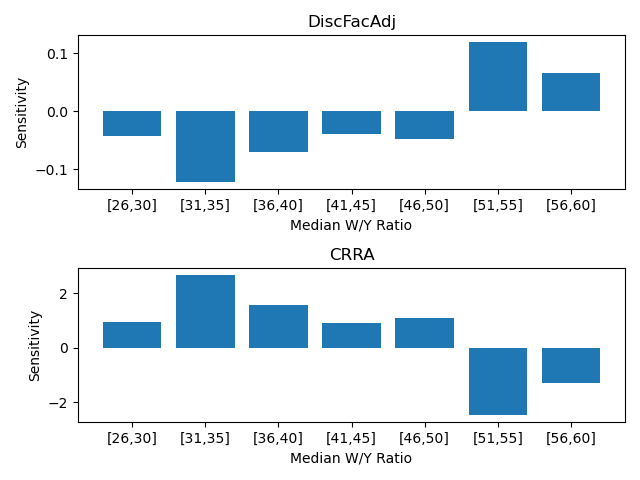
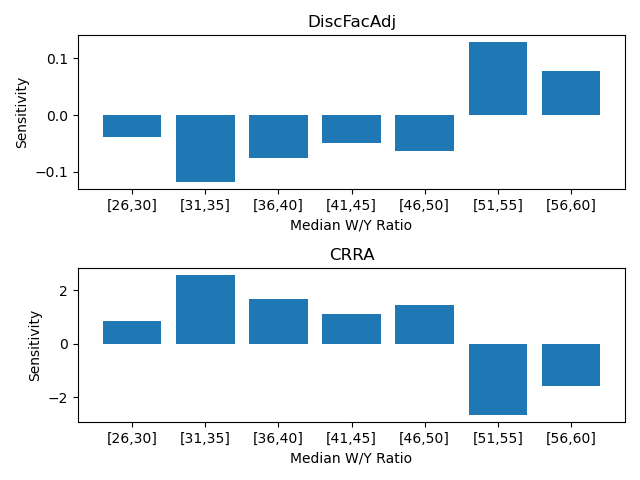
update IndShock results

diff --git a/Calibration/EstimationParameters.py b/Calibration/EstimationParameters.py
@@ -188,11 +188,11 @@ init_consumer_objects = {
     "T_age": TT + 1,
     "IncUnemp": IncUnemp,
     "IncUnempRet": IncUnempRet,
-    "aXtraMin": aXtraMin,
-    "aXtraMax": aXtraMax,
-    "aXtraCount": aXtraCount,
-    "aXtraExtra": [aXtraExtra, aXtraHuge],
-    "aXtraNestFac": exp_nest,
+    # "aXtraMin": aXtraMin,
+    # "aXtraMax": aXtraMax,
+    # "aXtraCount": aXtraCount,
+    # "aXtraExtra": [aXtraExtra, aXtraHuge],
+    # "aXtraNestFac": exp_nest,
     "LivPrb": liv_prb,
     "DiscFac": DiscFac_timevary,
     "AgentCount": num_agents,
